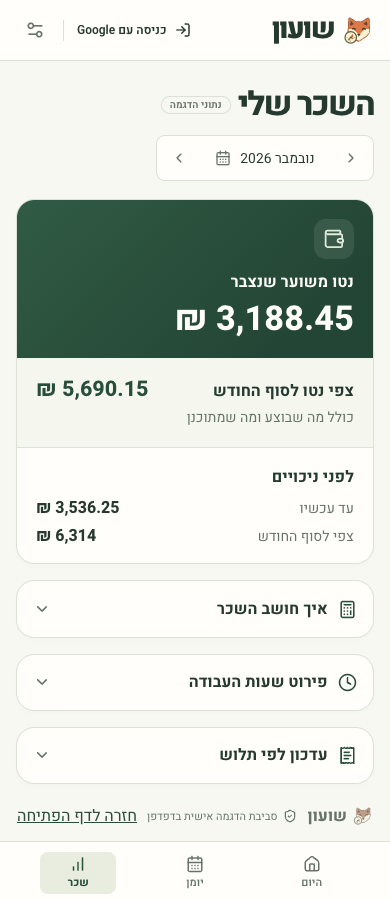
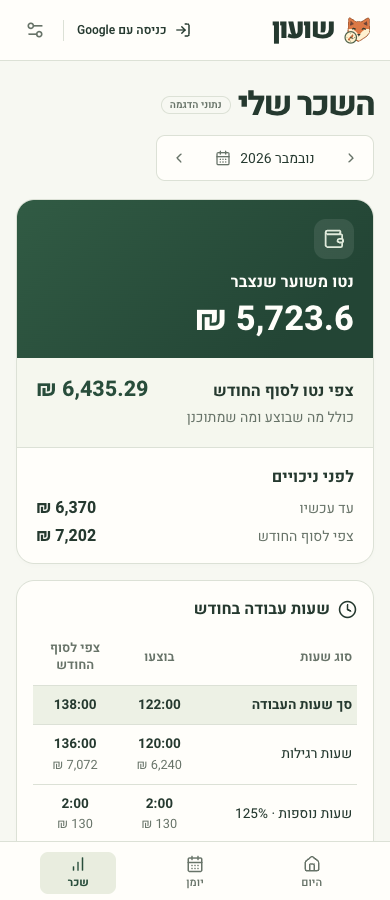
Show worked hours by pay band in shifts and salary

diff --git a/src/components/Salary.tsx b/src/components/Salary.tsx
@@ -9,16 +9,16 @@ import type {
   PayrollProfile,
   SalaryInput,
 } from '../domain/net'
-import { grossCoverage, type PayBand } from '../domain/gross'
-import { hourCount } from '../data/model'
+import { grossCoverage, type GrossResult, type PayBand } from '../domain/gross'
+import { WorkDuration, workHourBands } from './WorkHours'
 import { NumberField, readNumber } from './PayrollNumberField'
 import './salary.css'
 
 type SalaryProps = {
   month: string
   actual: SalaryInput
-  actualBands?: PayBand[]
-  forecastBands?: PayBand[]
+  actualWork: Pick<GrossResult, 'hours' | 'bands'>
+  forecastWork: Pick<GrossResult, 'hours' | 'bands'>
   planned: SalaryInput
   profile: PayrollProfile
   adjustments: PayrollAdjustment[]
@@ -136,15 +136,6 @@ function PayslipForm({
   )
 }
 
-const bandLabels: Record<PayBand['kind'], string> = {
-  regular: 'שעות רגילות',
-  overtime125: 'שעות נוספות 125%',
-  overtime150: 'שעות נוספות 150%',
-  rest150: 'מנוחה או חג 150%',
-  rest175: 'מנוחה ושעות נוספות 175%',
-  rest200: 'מנוחה ושעות נוספות 200%',
-}
-
 function SalaryComparison({ title, children }: { title: string; children: ReactNode }) {
   return (
     <table className="salary-table" aria-label={title}>
@@ -183,12 +174,52 @@ function SalaryAmount({ value }: { value: number | null }) {
 }
 
 function PayBandValue({ band }: { band?: PayBand }) {
-  if (!band) return <span aria-label="אין שעות">—</span>
   return (
     <>
-      <SalaryAmount value={band.amount} />
-      <small>{hourCount(band.hours)} שעות</small>
+      <WorkDuration hours={band?.hours ?? 0} />
+      {band && <small><SalaryAmount value={band.amount} /></small>}
     </>
+  )
+}
+
+function MonthlyWorkHours({ actualWork, forecastWork }: Pick<SalaryProps, 'actualWork' | 'forecastWork'>) {
+  const bands = workHourBands.flatMap(([kind, label]) => {
+    const actual = actualWork.bands.find((band) => band.kind === kind && band.hours > 0)
+    const forecast = forecastWork.bands.find((band) => band.kind === kind && band.hours > 0)
+    return actual || forecast ? [{ kind, label, actual, forecast }] : []
+  })
+  const showForecast = actualWork.hours !== forecastWork.hours ||
+    bands.some(({ actual, forecast }) => actual?.hours !== forecast?.hours)
+
+  return (
+    <section className="salary-card salary-work-hours">
+      <h2><Clock size={19} aria-hidden="true" /> שעות עבודה בחודש</h2>
+      {bands.length === 0 ? <p>אין שעות עבודה בחודש הזה.</p> : (
+        <table className="salary-table" aria-label="שעות עבודה ושכר לפי סוג">
+          <thead>
+            <tr>
+              <th scope="col">סוג שעות</th>
+              <th scope="col">בוצעו</th>
+              {showForecast && <th scope="col">צפי לסוף החודש</th>}
+            </tr>
+          </thead>
+          <tbody>
+            <tr className="salary-work-total">
+              <th scope="row">סך שעות העבודה</th>
+              <td><WorkDuration hours={actualWork.hours} /></td>
+              {showForecast && <td><WorkDuration hours={forecastWork.hours} /></td>}
+            </tr>
+            {bands.map(({ kind, label, actual, forecast }) => (
+              <tr key={kind}>
+                <th scope="row">{label}</th>
+                <td><PayBandValue band={actual} /></td>
+                {showForecast && <td><PayBandValue band={forecast} /></td>}
+              </tr>
+            ))}
+          </tbody>
+        </table>
+      )}
+    </section>
   )
 }
 
@@ -245,20 +276,14 @@ function DisclosureLabel({ icon: Icon, children }: { icon: LucideIcon; children:
 }
 
 export function Salary(props: SalaryProps) {
-  const { month, actual, planned, profile, adjustments, actualBands, forecastBands } = props
+  const { month, actual, planned, profile, adjustments, actualWork, forecastWork } = props
   const { forecast, actual: earned } = salaryReport(month, actual, planned, profile, adjustments)
   const payslip = useRef<HTMLDetailsElement>(null)
   const payslipId = useId()
   const missing = [...new Set([...earned.missing, ...forecast.missing])]
   const hasPayrollRules = month.startsWith('2026-')
-  const bands = Object.entries(bandLabels).flatMap(([kind, label]) => {
-    const forecastBand = forecastBands?.find((band) => band.kind === kind && band.hours > 0)
-    const actualBand = actualBands?.find((band) => band.kind === kind && band.hours > 0)
-    return forecastBand || actualBand ? [{ kind, label, forecastBand, actualBand }] : []
-  })
-
   const monthData = profile.months?.[month]
-  const hasSalaryData = bands.length > 0 ||
+  const hasSalaryData = forecastWork.hours > 0 ||
     [actual.gross, actual.pensionable, planned.gross, planned.pensionable].some((value) => value !== 0) ||
     adjustments.some((item) => item.month === month) ||
     [monthData?.pensionBase, monthData?.incomeTax, monthData?.insurance, monthData?.prior].some((value) => value != null)
@@ -297,6 +322,7 @@ export function Salary(props: SalaryProps) {
           <h2>אין עדיין נתוני שכר לחודש הזה</h2>
         </section>
       )}
+      <MonthlyWorkHours actualWork={actualWork} forecastWork={forecastWork} />
       {hasSalaryData && missing.length > 0 && (
         <div className="salary-card salary-estimate-note">
           <p>
@@ -347,24 +373,6 @@ export function Salary(props: SalaryProps) {
           </details>
         ) : <div className="salary-method"><SalaryMethod /></div>}
       </details>
-      {bands.length > 0 && (
-        <details className="salary-card salary-disclosure">
-          <DisclosureLabel icon={Clock}>פירוט שעות העבודה</DisclosureLabel>
-          <SalaryComparison title="שעות ושכר לפי תעריף">
-            <tbody>
-              {bands.map(({ kind, label, forecastBand, actualBand }) => (
-                <ComparisonRow
-                  key={kind}
-                  title={label}
-                  forecast={<PayBandValue band={forecastBand} />}
-                  actual={<PayBandValue band={actualBand} />}
-                  shared={actualBand?.amount === forecastBand?.amount && actualBand?.hours === forecastBand?.hours}
-                />
-              ))}
-            </tbody>
-          </SalaryComparison>
-        </details>
-      )}
       <details className="salary-card salary-disclosure salary-settings" ref={payslip} id={payslipId}>
         <DisclosureLabel icon={ReceiptText}>עדכון לפי תלוש</DisclosureLabel>
         <PayslipForm key={month} month={month} profile={profile} onProfileChange={props.onProfileChange} />

diff --git a/src/App.tsx b/src/App.tsx
@@ -19,15 +19,13 @@ import type { ManualShiftWrites } from './data/manual-shifts'
 import {
   dateLabel,
   defaultPay,
-  formatMoney,
-  hourCount,
   shiftStatusAt,
   type WorkShift,
   type Workspace,
 } from './data/model'
 import { subscribeWorkspace, writeQuestionnaire, writeSetting, writeShifts } from './data/repository'
 import { calculateShiftPay } from './data/shift-pay'
-import { calculateGross, type BandKind, type ShiftPay } from './domain/gross'
+import { calculateGross, type ShiftPay } from './domain/gross'
 import { addDays, addMonths, localDate, localTime, localToInstant } from './domain/time'
 import { estimateSalary, salaryReport } from './domain/net'
 import { Dashboard } from './components/Dashboard'
@@ -35,6 +33,7 @@ import { SleepingFox } from './components/SleepingFox'
 import { SalaryMonthPicker } from './components/SalaryMonthPicker'
 import { TimeRange } from './components/TimeRange'
 import { ShiftGross } from './components/ShiftGross'
+import { ShiftWorkHours } from './components/WorkHours'
 import { ShiftEditor } from './components/ShiftEditor'
 import { Calendar } from './components/Calendar'
 import { Onboarding, Settings } from './components/Settings'
@@ -53,14 +52,6 @@ const nav = [
 const fromHash = (): Page => {
   const value = location.hash.slice(1)
   return ['today', 'calendar', 'salary', 'settings'].includes(value) ? (value as Page) : 'today'
-}
-const bandNames: Record<BandKind, string> = {
-  regular: 'שעות רגילות',
-  overtime125: 'שעות נוספות · 125%',
-  overtime150: 'שעות נוספות · 150%',
-  rest150: 'מנוחה או חג · 150%',
-  rest175: 'מנוחה ושעות נוספות · 175%',
-  rest200: 'מנוחה ושעות נוספות · 200%',
 }
 function errText(e: unknown) {
   const code = (e as { code?: string })?.code
@@ -451,7 +442,7 @@ function WorkspaceApp({ user }: { user: User | null }) {
         </div>
         {wage?.issue && (
           <p className="warning" role="alert">
-            חישוב השכר דורש תיקון. {wage.issue} <button onClick={() => goCalendar(day)}>פתיחת היומן</button>
+            {page === 'salary' ? 'פירוט שעות העבודה אינו זמין כרגע.' : 'חישוב השכר דורש תיקון.'} {wage.issue} <button onClick={() => goCalendar(day)}>פתיחת היומן</button>
           </p>
         )}
         {page === 'today' && (
@@ -494,8 +485,8 @@ function WorkspaceApp({ user }: { user: User | null }) {
               month={workingMonth}
               actual={wage.actual}
               planned={wage.planned}
-              actualBands={wage.actual.bands}
-              forecastBands={wage.combined.bands}
+              actualWork={wage.actual}
+              forecastWork={wage.combined}
               profile={w.payroll}
               adjustments={w.adjustments}
               onProfileChange={(v) => setting('payroll', v)}
@@ -577,16 +568,7 @@ function WorkspaceApp({ user }: { user: User | null }) {
                     <ShiftGross status={picked.status} gross={pickedPay?.gross} />
                   </div>
                 )}
-                {pickedPay?.bands
-                  .filter((b) => b.hours > 0)
-                  .map((b) => (
-                    <div className="ledger-line" key={b.kind}>
-                      <span>
-                        {bandNames[b.kind]} · {hourCount(b.hours)} שעות
-                      </span>
-                      <b>{formatMoney(b.amount, 2)}</b>
-                    </div>
-                  ))}
+                <ShiftWorkHours status={picked.status} pay={pickedPay} />
                 {picked.note && <p>{picked.note}</p>}
                 <div className="detail-actions">
                   {picked.status === 'active' ? (

diff --git a/src/components/WorkHours.tsx b/src/components/WorkHours.tsx
@@ -1,0 +1,46 @@
+import { Clock } from 'lucide-react'
+import { formatMoney, type WorkShift } from '../data/model'
+import { formatWorkDuration } from '../data/shift-hours'
+import type { BandKind, PayBand, ShiftPay } from '../domain/gross'
+import { HOUR_MS } from '../domain/time'
+
+export const workHourBands = [
+  ['regular', 'שעות רגילות'],
+  ['overtime125', 'שעות נוספות · 125%'],
+  ['overtime150', 'שעות נוספות · 150%'],
+  ['rest150', 'מנוחה או חג · 150%'],
+  ['rest175', 'מנוחה או חג ושעות נוספות · 175%'],
+  ['rest200', 'מנוחה או חג ושעות נוספות · 200%'],
+] as const satisfies readonly (readonly [BandKind, string])[]
+
+export function WorkDuration({ hours }: { hours: number }) {
+  return <bdi className="work-duration" dir="ltr">{formatWorkDuration(hours * HOUR_MS)}</bdi>
+}
+
+function ShiftHoursValue({ band }: { band: PayBand }) {
+  return (
+    <dd>
+      <WorkDuration hours={band.hours} />
+      <small><bdi>{formatMoney(band.amount, 2)}</bdi></small>
+    </dd>
+  )
+}
+
+export function ShiftWorkHours({ status, pay }: { status: WorkShift['status']; pay?: ShiftPay }) {
+  return (
+    <section className="shift-work-hours">
+      <h3><Clock size={17} aria-hidden="true" /> {status === 'planned' ? 'שעות עבודה צפויות' : 'שעות עבודה'}</h3>
+      {pay ? (
+        <dl>
+          <div className="shift-work-total"><dt>סך שעות העבודה</dt><dd><WorkDuration hours={pay.hours} /></dd></div>
+          {workHourBands.map(([kind, label]) => {
+            const band = pay.bands.find((item) => item.kind === kind && item.hours > 0)
+            return band && <div key={kind}><dt>{label}</dt><ShiftHoursValue band={band} /></div>
+          })}
+        </dl>
+      ) : (
+        <p>{status === 'active' ? 'פירוט השעות יהיה זמין בסיום המשמרת.' : 'פירוט השעות אינו זמין כרגע.'}</p>
+      )}
+    </section>
+  )
+}

diff --git a/src/style.css b/src/style.css
@@ -1170,13 +1170,55 @@ button:not(:disabled):active {
 .detail-pay .shift-gross bdi {
   font-size: 25px;
 }
-.ledger-line {
+.shift-work-hours {
+  margin-block: 1rem;
+}
+.shift-work-hours h3,
+.salary-work-hours h2 {
   display: flex;
-  justify-content: space-between;
-  gap: 15px;
-  padding: 8px 0;
-  border-bottom: 1px solid var(--line);
-  font-size: 14px;
+  align-items: center;
+  gap: 0.5rem;
+}
+.shift-work-hours h3 {
+  margin: 0 0 0.55rem;
+  font-size: 1rem;
+}
+.shift-work-hours dl {
+  margin: 0;
+}
+.shift-work-hours dl > div {
+  display: grid;
+  grid-template-columns: minmax(0, 1fr) auto;
+  align-items: center;
+  gap: 0.75rem;
+  padding: 0.55rem 0.75rem;
+}
+.shift-work-hours dl > div + div {
+  border-block-end: 1px solid var(--line);
+}
+.shift-work-total {
+  border-radius: 0.65rem;
+  background: var(--tint);
+  font-weight: 700;
+}
+.shift-work-hours dd {
+  margin: 0;
+  text-align: end;
+}
+.shift-work-hours small {
+  display: block;
+  color: var(--muted);
+}
+.shift-work-hours p,
+.salary-work-hours p {
+  margin: 0.55rem 0 0;
+  color: var(--muted);
+}
+.work-duration {
+  display: inline-block;
+  font-weight: 700;
+  font-variant-numeric: tabular-nums;
+  white-space: nowrap;
 }
 .detail-actions {
   display: grid;

diff --git a/src/components/salary.css b/src/components/salary.css
@@ -267,6 +267,21 @@
   font-size: 0.8rem;
   font-weight: 400;
 }
+.salary-work-hours h2 {
+  margin-block-end: 0.55rem;
+}
+.salary-work-hours .salary-table thead th {
+  width: auto;
+}
+.salary-work-hours .salary-table thead th:first-child {
+  width: 48%;
+}
+.salary-work-total {
+  background: var(--tint);
+}
+.salary-table .salary-work-total th[scope='row'] {
+  font-weight: 700;
+}
 .salary-form {
   display: grid;
   gap: 0.95rem;

diff --git a/README.md b/README.md
@@ -17,8 +17,8 @@
 | מסך | מה עושים בו |
 | --- | --- |
 | **היום שלי** | מתחילים ומסיימים משמרת ורואים בגרף השבועי את שעות העבודה והשכר לכל משמרת בשבעת הימים האחרונים. ימים בלי משמרות מסומנים כימים פנויים. אפשר להחליף את מדד העמודות בין שעות לשכר. לכל משמרת מתוכננת מוצג השכר הצפוי. לצד השעון מופיעים הברוטו של החודש הקודם, אומדן הנטו שנצבר החודש, שמוצג בהבלטה, והתחזית לסופו. |
-| **יומן המשמרות** | בודקים מה עבדתם ומה מתוכנן, מזינים שעות בדיעבד ומחילים אותן שעות על כמה ימים. בכל שורה מופיע השכר למשמרת כולה או השכר הצפוי למשמרת מתוכננת. משמרת שחוצה חצות מופיעה ביומן ביום שבו התחילה, עם כל שעות העבודה והשכר שלה. בטופס המשמרת מוצגות כברירת מחדל שעות ידניות. אפשר לעבור לבחירה מתבנית ולהוסיף הערה ישירות. בעריכת משמרת קיימת אפשר למחוק אותה אחרי אישור מפורש. |
-| **השכר שלי** | בוחרים חודש ורואים קודם את הנטו המשוער שנצבר. הסיכום מציג גם את הצפי לסוף החודש ואת השכר לפני ניכויים. בלחיצה אפשר לפתוח את פירוט החישוב, לראות את שעות העבודה או לעדכן נתונים לפי תלוש. |
+| **יומן המשמרות** | בודקים מה עבדתם ומה מתוכנן, מזינים שעות בדיעבד ומחילים אותן שעות על כמה ימים. בכל שורה מופיע השכר למשמרת כולה או השכר הצפוי למשמרת מתוכננת. בחלון פרטי המשמרת מופיעים סך שעות העבודה, משך העבודה והשכר לפי סוג שעות. משמרת שחוצה חצות מופיעה ביומן ביום שבו התחילה, עם כל שעות העבודה והשכר שלה. בטופס המשמרת מוצגות כברירת מחדל שעות ידניות. אפשר לעבור לבחירה מתבנית ולהוסיף הערה ישירות. בעריכת משמרת קיימת אפשר למחוק אותה אחרי אישור מפורש. |
+| **השכר שלי** | בוחרים חודש ורואים קודם את הנטו המשוער שנצבר. הסיכום מציג גם את הצפי לסוף החודש ואת השכר לפני ניכויים. כרטיס שעות העבודה מציג את השעות שבוצעו לפי סוג, ולצדן צפי לסוף החודש כשיש שעות מתוכננות. בלחיצה אפשר לפתוח את פירוט החישוב או לעדכן נתונים לפי תלוש. |
 | **הגדרות** | מעדכנים את שאלון השכר, נקודות זיכוי, הגדרות פנסיה, תעריפים לפי תאריך, ימי מנוחה וחגים ותבניות משמרת. לחיצה על תבנית פותחת עריכה של השם ושעות המשמרת בחלון קצר. אפשר לבחור מראה בהיר, כהה, מרווה או התאמה למכשיר. |
 
 ![הדשבורד היום שלי עם שעון נוכחות, סיכום שכר וגרף משמרות שבועי](docs/screenshots/today-desktop.png)
@@ -123,6 +123,7 @@ firebase deploy --only firestore:rules --project shuon-shifts-il
 | תיקייה | מה נמצא בה |
 | --- | --- |
 | [`src/components`](src/components) | דף הפתיחה, הדשבורד, היומן, עורך המשמרות, דוח השכר וההגדרות |
+| [`WorkHours.tsx`](src/components/WorkHours.tsx) · [`Salary.tsx`](src/components/Salary.tsx) | פירוט סוגי השעות בחלון המשמרת ובדוח החודשי |
 | [`src/data`](src/data) | מודל הנתונים, Firebase, נתוני הדמו ושמירת משמרות |
 | [`src/data/manual-shifts.ts`](src/data/manual-shifts.ts) · [`src/data/shift-writes.ts`](src/data/shift-writes.ts) | הכנת משמרות לכמה ימים, בדיקת חפיפות ושמירת כל השינויים יחד ב־Firestore |
 | [`src/domain`](src/domain) | חישובי זמן לפי שעון ישראל, שעות עבודה, ברוטו, מסים ונטו |
